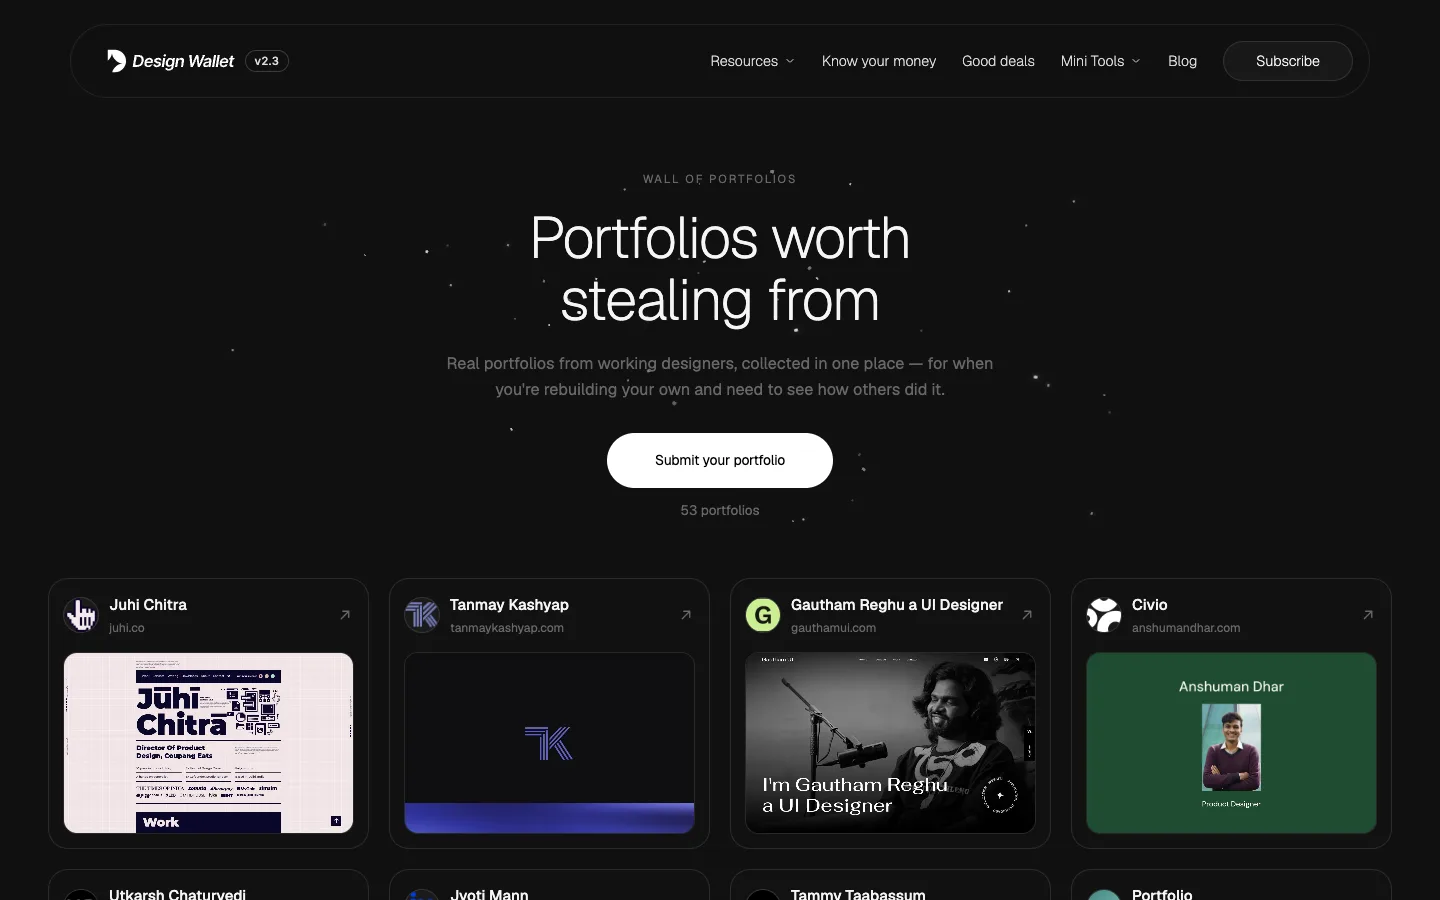
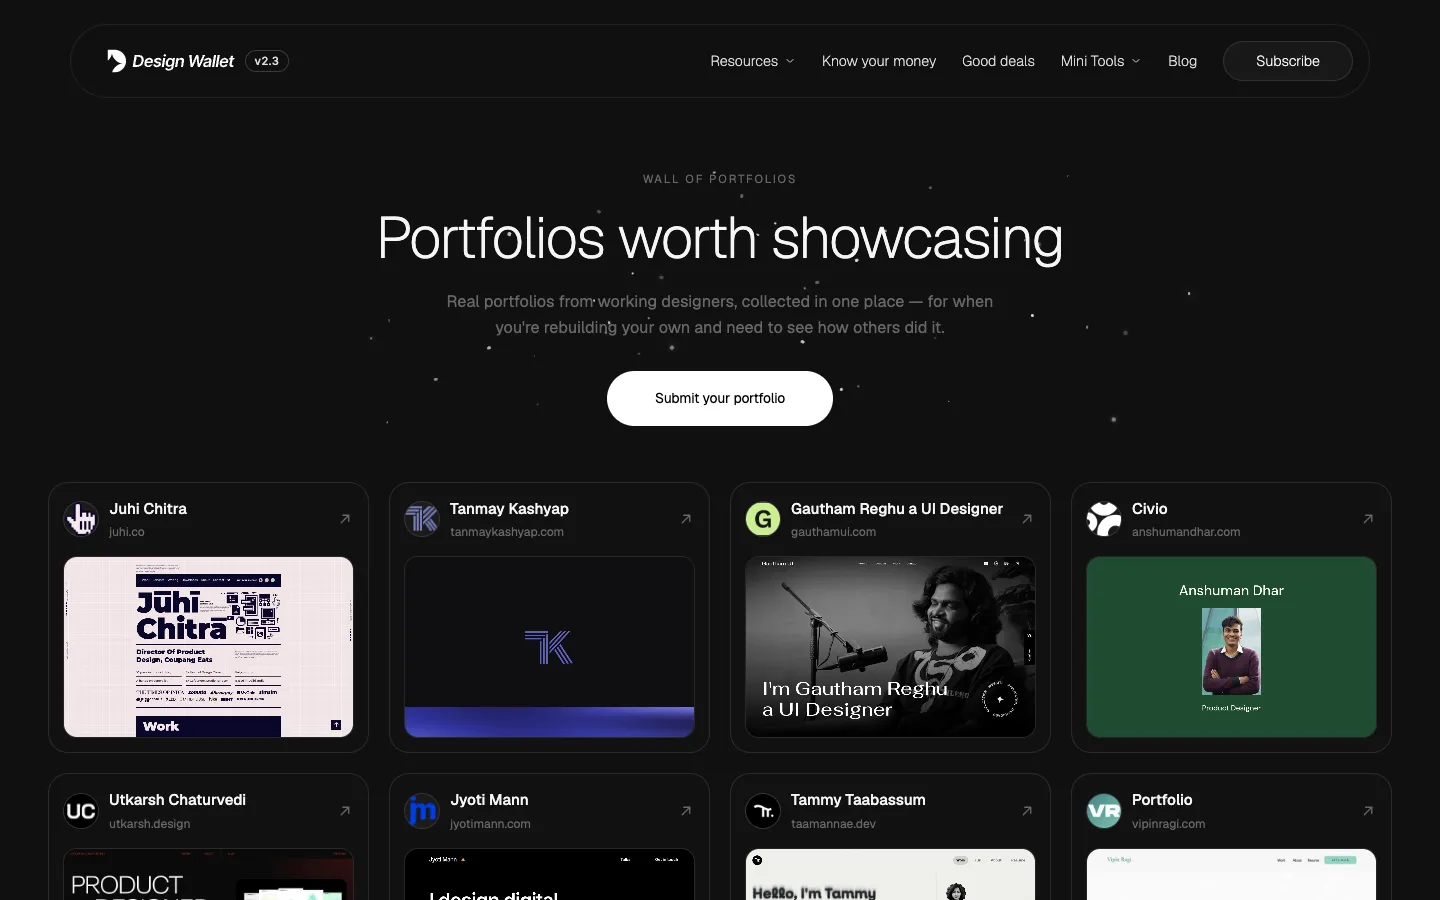
Karthik's wall and changelog copy edits
- Wall of Portfolios heading is now "Portfolios worth showcasing", and the
  portfolio count under the button is gone.
- Changelog v2.3 title shortened; the submit link is underlined.
- v2.3 screenshot retaken so it shows the new heading.

diff --git a/changelog/index.html b/changelog/index.html
@@ -66,14 +66,14 @@
                             <time datetime="2026-09-17">Sep 17, 2026</time>
                         </div>
                         <article class="cl-body">
-                            <h3 class="cl-title"><a href="#v2-3">Wall of Portfolios: real portfolios from working designers</a></h3>
+                            <h3 class="cl-title"><a href="#v2-3">Wall of Portfolios: real design portfolios</a></h3>
                             <figure class="cl-shot">
                                 <a class="cl-shot-link" href="/wall-of-portfolios/" aria-label="Open the Wall of Portfolios">
                                     <img src="/public/changelog/v2-3.webp" alt="The Wall of Portfolios, showing designer portfolio cards four to a row with a thumbnail of each site" width="1440" height="900">
                                 </a>
                             </figure>
                             <div class="cl-desc">
-                                <p>A new page collecting designer portfolios in one place — for when you're rebuilding your own and want to see how other people solved it. Every card opens the real site, and the wall grows as we find more. Got a portfolio you're proud of? <a href="/submit-portfolio/">Submit your portfolio</a>.</p>
+                                <p>A new page collecting designer portfolios in one place — for when you're rebuilding your own and want to see how other people solved it. Every card opens the real site, and the wall grows as we find more. Got a portfolio you're proud of? <a href="/submit-portfolio/"><u>Submit your portfolio</u></a>.</p>
                             </div>
                         </article>
                     </li>

diff --git a/wall-of-portfolios/index.html b/wall-of-portfolios/index.html
@@ -42,7 +42,7 @@
                 <!-- Orbiting starfield, populated by stars.js -->
                 <div class="stars-field" id="stars-field" aria-hidden="true"></div>
                 <p class="wop-eyebrow">Wall of portfolios</p>
-                <h1 class="wop-title">Portfolios worth<br> stealing from</h1>
+                <h1 class="wop-title">Portfolios worth showcasing</h1>
                 <p class="wop-subtitle">
                     Real portfolios from working designers, collected in one place — for
                     when you're rebuilding your own and need to see how others did it.
@@ -50,7 +50,6 @@
 
                 <div class="wop-hero-actions">
                     <a class="primary-button wop-submit-btn" href="/submit-portfolio/">Submit your portfolio</a>
-                    <p class="wop-count" id="wop-count"></p>
                 </div>
             </section>
 
